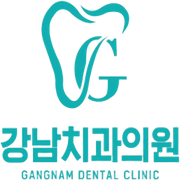
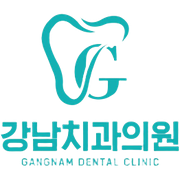
fix: 이미지 로컬 호스팅 전환 + 파비콘 로고 적용
- genspark.ai 외부 URL → /static/photos/ 로컬 경로로 전환 (13개 이미지)
- favicon.ico/png 로고 이미지로 재생성 (logo.png 기반)
- 프로덕션 D1 데이터베이스 이미지 URL 일괄 업데이트
- layout.ts schema의 logo/image 경로 로컬 로고로 변경

Changed region(s): [[0.0, 0.6667, 1.0, 1.0], [0.2222, 0.0, 0.7222, 0.6111]]

diff --git a/src/pages/main.ts b/src/pages/main.ts
@@ -228,16 +228,16 @@ export function mainPage(): string {
 
   // Clinic photos (실사 사진)
   const clinicPhotos = [
-    { url: 'https://www.genspark.ai/api/files/s/p9YyzTaw', alt: '강남치과의원 대기실 전경 - 프리미엄 소파와 와이드 디스플레이', label: '대기실', desc: '프리미엄 라운지형 대기 공간' },
-    { url: 'https://www.genspark.ai/api/files/s/KLnijX5L', alt: '강남치과의원 진료실 - 유리 파티션 개별 진료 공간', label: '진료실', desc: '유리 파티션 개별 진료 공간' },
-    { url: 'https://www.genspark.ai/api/files/s/sOkojKif', alt: '강남치과의원 상담실 - 전문의 인증서와 상담 공간', label: '상담실', desc: '전문의 자격증 · 1:1 상담' },
-    { url: 'https://www.genspark.ai/api/files/s/XLqoXGPt', alt: '강남치과의원 X-RAY실과 진료 복도', label: 'X-RAY · 복도', desc: 'X-RAY실 · 디지털 진료 시스템' },
-    { url: 'https://www.genspark.ai/api/files/s/xfkmnFB6', alt: '강남치과의원 진료 장비 클로즈업 - 최신 치과 유닛', label: '진료 장비', desc: '최신 치과 유닛 체어 시스템' },
-    { url: 'https://www.genspark.ai/api/files/s/ZaCoVLBk', alt: '강남치과의원 휴게실 - 그랜드 피아노와 서재', label: '휴게실', desc: '그랜드 피아노 · 서재 공간' },
-    { url: 'https://www.genspark.ai/api/files/s/4fco8xUr', alt: '강남치과의원 대기실 - 무인 키오스크와 소파', label: '접수 · 대기', desc: '무인 키오스크 · 넓은 대기 공간' },
-    { url: 'https://www.genspark.ai/api/files/s/cihnca5u', alt: '강남치과의원 메이크업실', label: '메이크업실', desc: '진료 후 편의 시설' },
-    { url: 'https://www.genspark.ai/api/files/s/3gQUD6CP', alt: '강남치과의원 접수대와 복도 - 강남치과 로고', label: '접수대', desc: '깔끔한 접수대 · 로고 사이니지' },
-    { url: 'https://www.genspark.ai/api/files/s/qBEkv4ph', alt: '강남치과의원 수술실 복도 - 밝고 청결한 환경', label: '수술실 복도', desc: '감염관리 · 청결한 동선' },
+    { url: '/static/photos/p9YyzTaw.jpg', alt: '강남치과의원 대기실 전경 - 프리미엄 소파와 와이드 디스플레이', label: '대기실', desc: '프리미엄 라운지형 대기 공간' },
+    { url: '/static/photos/KLnijX5L.jpg', alt: '강남치과의원 진료실 - 유리 파티션 개별 진료 공간', label: '진료실', desc: '유리 파티션 개별 진료 공간' },
+    { url: '/static/photos/sOkojKif.jpg', alt: '강남치과의원 상담실 - 전문의 인증서와 상담 공간', label: '상담실', desc: '전문의 자격증 · 1:1 상담' },
+    { url: '/static/photos/XLqoXGPt.jpg', alt: '강남치과의원 X-RAY실과 진료 복도', label: 'X-RAY · 복도', desc: 'X-RAY실 · 디지털 진료 시스템' },
+    { url: '/static/photos/xfkmnFB6.jpg', alt: '강남치과의원 진료 장비 클로즈업 - 최신 치과 유닛', label: '진료 장비', desc: '최신 치과 유닛 체어 시스템' },
+    { url: '/static/photos/ZaCoVLBk.jpg', alt: '강남치과의원 휴게실 - 그랜드 피아노와 서재', label: '휴게실', desc: '그랜드 피아노 · 서재 공간' },
+    { url: '/static/photos/4fco8xUr.jpg', alt: '강남치과의원 대기실 - 무인 키오스크와 소파', label: '접수 · 대기', desc: '무인 키오스크 · 넓은 대기 공간' },
+    { url: '/static/photos/cihnca5u.jpg', alt: '강남치과의원 메이크업실', label: '메이크업실', desc: '진료 후 편의 시설' },
+    { url: '/static/photos/3gQUD6CP.jpg', alt: '강남치과의원 접수대와 복도 - 강남치과 로고', label: '접수대', desc: '깔끔한 접수대 · 로고 사이니지' },
+    { url: '/static/photos/qBEkv4ph.jpg', alt: '강남치과의원 수술실 복도 - 밝고 청결한 환경', label: '수술실 복도', desc: '감염관리 · 청결한 동선' },
   ];
   const clinicPhotosHtml = clinicPhotos.map(p => `
     <div class="flex-shrink-0 w-[340px] md:w-[420px] snap-start group cursor-pointer" onclick="openPhotoModal('${p.url}','${p.alt}')">
@@ -502,7 +502,7 @@ export function mainPage(): string {
           <div class="relative">
             <!-- 실사 사진 배경 (진료실) -->
             <div class="absolute -inset-8 rounded-[40px] overflow-hidden opacity-15 blur-[2px]">
-              <img src="https://www.genspark.ai/api/files/s/Wpp3wlfj" alt="강남치과의원 진료실" class="w-full h-full object-cover">
+              <img src="/static/photos/Wpp3wlfj.jpg" alt="강남치과의원 진료실" class="w-full h-full object-cover">
             </div>
             <!-- Sketchfab 3D Implant Viewer (bigger size) -->
             <div class="relative w-[540px] h-[640px]">
@@ -619,7 +619,7 @@ export function mainPage(): string {
         </div>
         <div class="lg:col-span-5 card-premium p-10 md:p-12 flex flex-col justify-between min-h-[480px] stagger-item group relative overflow-hidden">
           <div class="absolute inset-0 opacity-[0.06]">
-            <img src="https://www.genspark.ai/api/files/s/xfkmnFB6" alt="강남치과의원 진료 장비" class="w-full h-full object-cover">
+            <img src="/static/photos/xfkmnFB6.jpg" alt="강남치과의원 진료 장비" class="w-full h-full object-cover">
           </div>
           <div class="relative z-10">
             <div class="flex items-center justify-between mb-8">
@@ -848,7 +848,7 @@ export function mainPage(): string {
           <p class="text-gray-400 leading-relaxed mb-8">첫 방문부터 치료 완료까지,<br>모든 과정을 미리 알려드립니다.<br>불안함 없이 편하게 오세요.</p>
           <a href="/reservation" class="btn-primary !text-sm !py-4 !px-8"><i class="fas fa-calendar-check text-xs"></i>첫 방문 예약하기</a>
           <div class="mt-8 rounded-2xl overflow-hidden hidden lg:block shadow-lg shadow-royal/5">
-            <img src="https://www.genspark.ai/api/files/s/yzSmZXZD" alt="강남치과의원 상담실 - 전문의 상담 공간" class="w-full h-48 object-cover" loading="lazy">
+            <img src="/static/photos/yzSmZXZD.jpg" alt="강남치과의원 상담실 - 전문의 상담 공간" class="w-full h-48 object-cover" loading="lazy">
           </div>
         </div>
         <div class="lg:col-span-8">

diff --git a/src/pages/directions.ts b/src/pages/directions.ts
@@ -3,7 +3,7 @@ export function directionsPage(): string {
   <!-- Hero (White) -->
   <section class="relative min-h-[60vh] flex items-end subpage-hero overflow-hidden">
     <div class="absolute inset-0 z-[1]">
-      <img src="https://www.genspark.ai/api/files/s/3gQUD6CP" alt="강남치과의원 접수대와 로고" class="w-full h-full object-cover">
+      <img src="/static/photos/3gQUD6CP.jpg" alt="강남치과의원 접수대와 로고" class="w-full h-full object-cover">
       <div class="absolute inset-0 bg-gradient-to-b from-white/90 via-white/70 to-white"></div>
     </div>
     <div class="orb orb-royal w-[500px] h-[500px] -top-48 -right-48 opacity-20 z-[2]"></div>
@@ -97,19 +97,19 @@ export function directionsPage(): string {
         </div>
         <div class="grid grid-cols-2 md:grid-cols-4 gap-4 stagger-children">
           <div class="card-premium overflow-hidden stagger-item group">
-            <div class="aspect-[4/3] overflow-hidden"><img src="https://www.genspark.ai/api/files/s/p9YyzTaw" alt="강남치과의원 대기실" class="w-full h-full object-cover group-hover:scale-110 transition-transform duration-700" loading="lazy"></div>
+            <div class="aspect-[4/3] overflow-hidden"><img src="/static/photos/p9YyzTaw.jpg" alt="강남치과의원 대기실" class="w-full h-full object-cover group-hover:scale-110 transition-transform duration-700" loading="lazy"></div>
             <div class="p-4"><h4 class="font-extrabold text-charcoal text-sm">대기실</h4><p class="text-gray-400 text-xs mt-0.5">프리미엄 라운지형 대기 공간</p></div>
           </div>
           <div class="card-premium overflow-hidden stagger-item group">
-            <div class="aspect-[4/3] overflow-hidden"><img src="https://www.genspark.ai/api/files/s/KLnijX5L" alt="강남치과의원 진료실" class="w-full h-full object-cover group-hover:scale-110 transition-transform duration-700" loading="lazy"></div>
+            <div class="aspect-[4/3] overflow-hidden"><img src="/static/photos/KLnijX5L.jpg" alt="강남치과의원 진료실" class="w-full h-full object-cover group-hover:scale-110 transition-transform duration-700" loading="lazy"></div>
             <div class="p-4"><h4 class="font-extrabold text-charcoal text-sm">진료실</h4><p class="text-gray-400 text-xs mt-0.5">유리 파티션 개별 진료 공간</p></div>
           </div>
           <div class="card-premium overflow-hidden stagger-item group">
-            <div class="aspect-[4/3] overflow-hidden"><img src="https://www.genspark.ai/api/files/s/sOkojKif" alt="강남치과의원 상담실" class="w-full h-full object-cover group-hover:scale-110 transition-transform duration-700" loading="lazy"></div>
+            <div class="aspect-[4/3] overflow-hidden"><img src="/static/photos/sOkojKif.jpg" alt="강남치과의원 상담실" class="w-full h-full object-cover group-hover:scale-110 transition-transform duration-700" loading="lazy"></div>
             <div class="p-4"><h4 class="font-extrabold text-charcoal text-sm">상담실</h4><p class="text-gray-400 text-xs mt-0.5">전문의 1:1 상담 공간</p></div>
           </div>
           <div class="card-premium overflow-hidden stagger-item group">
-            <div class="aspect-[4/3] overflow-hidden"><img src="https://www.genspark.ai/api/files/s/ZaCoVLBk" alt="강남치과의원 휴게실" class="w-full h-full object-cover group-hover:scale-110 transition-transform duration-700" loading="lazy"></div>
+            <div class="aspect-[4/3] overflow-hidden"><img src="/static/photos/ZaCoVLBk.jpg" alt="강남치과의원 휴게실" class="w-full h-full object-cover group-hover:scale-110 transition-transform duration-700" loading="lazy"></div>
             <div class="p-4"><h4 class="font-extrabold text-charcoal text-sm">휴게실</h4><p class="text-gray-400 text-xs mt-0.5">그랜드 피아노 · 서재 공간</p></div>
           </div>
         </div>

diff --git a/src/pages/doctors.ts b/src/pages/doctors.ts
@@ -404,19 +404,19 @@ export function doctorsPage(): string {
       </div>
       <div class="grid grid-cols-2 md:grid-cols-4 gap-4 stagger-children">
         <div class="card-premium overflow-hidden stagger-item group">
-          <div class="aspect-[4/3] overflow-hidden"><img src="https://www.genspark.ai/api/files/s/KLnijX5L" alt="강남치과의원 진료실" class="w-full h-full object-cover group-hover:scale-110 transition-transform duration-700" loading="lazy"></div>
+          <div class="aspect-[4/3] overflow-hidden"><img src="/static/photos/KLnijX5L.jpg" alt="강남치과의원 진료실" class="w-full h-full object-cover group-hover:scale-110 transition-transform duration-700" loading="lazy"></div>
           <div class="p-4"><h4 class="font-extrabold text-charcoal text-sm">진료실</h4><p class="text-gray-400 text-xs mt-0.5">유리 파티션 개별 진료 공간</p></div>
         </div>
         <div class="card-premium overflow-hidden stagger-item group">
-          <div class="aspect-[4/3] overflow-hidden"><img src="https://www.genspark.ai/api/files/s/xfkmnFB6" alt="강남치과의원 진료 장비" class="w-full h-full object-cover group-hover:scale-110 transition-transform duration-700" loading="lazy"></div>
+          <div class="aspect-[4/3] overflow-hidden"><img src="/static/photos/xfkmnFB6.jpg" alt="강남치과의원 진료 장비" class="w-full h-full object-cover group-hover:scale-110 transition-transform duration-700" loading="lazy"></div>
           <div class="p-4"><h4 class="font-extrabold text-charcoal text-sm">진료 장비</h4><p class="text-gray-400 text-xs mt-0.5">최신 치과 유닛 체어 시스템</p></div>
         </div>
         <div class="card-premium overflow-hidden stagger-item group">
-          <div class="aspect-[4/3] overflow-hidden"><img src="https://www.genspark.ai/api/files/s/XLqoXGPt" alt="강남치과의원 X-RAY 복도" class="w-full h-full object-cover group-hover:scale-110 transition-transform duration-700" loading="lazy"></div>
+          <div class="aspect-[4/3] overflow-hidden"><img src="/static/photos/XLqoXGPt.jpg" alt="강남치과의원 X-RAY 복도" class="w-full h-full object-cover group-hover:scale-110 transition-transform duration-700" loading="lazy"></div>
           <div class="p-4"><h4 class="font-extrabold text-charcoal text-sm">X-RAY · 복도</h4><p class="text-gray-400 text-xs mt-0.5">디지털 진료 시스템</p></div>
         </div>
         <div class="card-premium overflow-hidden stagger-item group">
-          <div class="aspect-[4/3] overflow-hidden"><img src="https://www.genspark.ai/api/files/s/sOkojKif" alt="강남치과의원 상담실" class="w-full h-full object-cover group-hover:scale-110 transition-transform duration-700" loading="lazy"></div>
+          <div class="aspect-[4/3] overflow-hidden"><img src="/static/photos/sOkojKif.jpg" alt="강남치과의원 상담실" class="w-full h-full object-cover group-hover:scale-110 transition-transform duration-700" loading="lazy"></div>
           <div class="p-4"><h4 class="font-extrabold text-charcoal text-sm">상담실</h4><p class="text-gray-400 text-xs mt-0.5">전문의 1:1 상담 공간</p></div>
         </div>
       </div>

diff --git a/src/layout.ts b/src/layout.ts
@@ -39,8 +39,8 @@ function buildBaseSchema() {
     "url": SITE_URL,
     "telephone": PHONE,
     "email": "gndentalclinic@naver.com",
-    "logo": `${SITE_URL}/favicon.svg`,
-    "image": `${SITE_URL}/favicon.svg`,
+    "logo": `${SITE_URL}/static/logo.png`,
+    "image": `${SITE_URL}/static/logo.png`,
     "description": "경북 영주시 강남치과의원. 구강악안면외과 전문의 2인이 직접 진료하는 프리미엄 치과. 임플란트, CEREC 당일보철, 인비절라인, 심미보철 전문.",
     "slogan": "빠르게 낫고, 정확하게 오래가는 치과",
     "foundingDate": "2017",
@@ -269,7 +269,8 @@ export function layout(content: string, opts: LayoutOptions): string {
   <link rel="dns-prefetch" href="https://cdn.tailwindcss.com">
 
   <!-- Favicon -->
-  <link rel="icon" type="image/svg+xml" href="/favicon.svg">
+  <link rel="icon" type="image/png" sizes="32x32" href="/static/favicon-32x32.png">
+  <link rel="icon" type="image/x-icon" href="/favicon.ico">
 
   <!-- hreflang (single language) -->
   <link rel="alternate" hreflang="ko" href="${fullUrl}">

diff --git a/src/pages/treatments.ts b/src/pages/treatments.ts
@@ -106,7 +106,7 @@ export function treatmentsPage(): string {
   <!-- Hero (White) -->
   <section class="relative min-h-[65vh] flex items-end subpage-hero overflow-hidden" aria-label="전체 진료 안내 히어로">
     <div class="absolute inset-0 z-[1]">
-      <img src="https://www.genspark.ai/api/files/s/Wpp3wlfj" alt="강남치과의원 진료실" class="w-full h-full object-cover">
+      <img src="/static/photos/Wpp3wlfj.jpg" alt="강남치과의원 진료실" class="w-full h-full object-cover">
       <div class="absolute inset-0 bg-gradient-to-b from-white/92 via-white/75 to-white"></div>
     </div>
     <div class="orb orb-royal w-[600px] h-[600px] -top-64 -right-64 opacity-30 z-[2]"></div>

diff --git a/src/pages/reservation.ts b/src/pages/reservation.ts
@@ -3,7 +3,7 @@ export function reservationPage(): string {
   <!-- Hero (White) -->
   <section class="relative min-h-[60vh] flex items-end subpage-hero overflow-hidden">
     <div class="absolute inset-0 z-[1]">
-      <img src="https://www.genspark.ai/api/files/s/CR9dgzgZ" alt="강남치과의원 대기실" class="w-full h-full object-cover">
+      <img src="/static/photos/CR9dgzgZ.jpg" alt="강남치과의원 대기실" class="w-full h-full object-cover">
       <div class="absolute inset-0 bg-gradient-to-b from-white/90 via-white/70 to-white"></div>
     </div>
     <div class="orb orb-royal w-[500px] h-[500px] -top-48 -right-48 opacity-20 z-[2]"></div>
